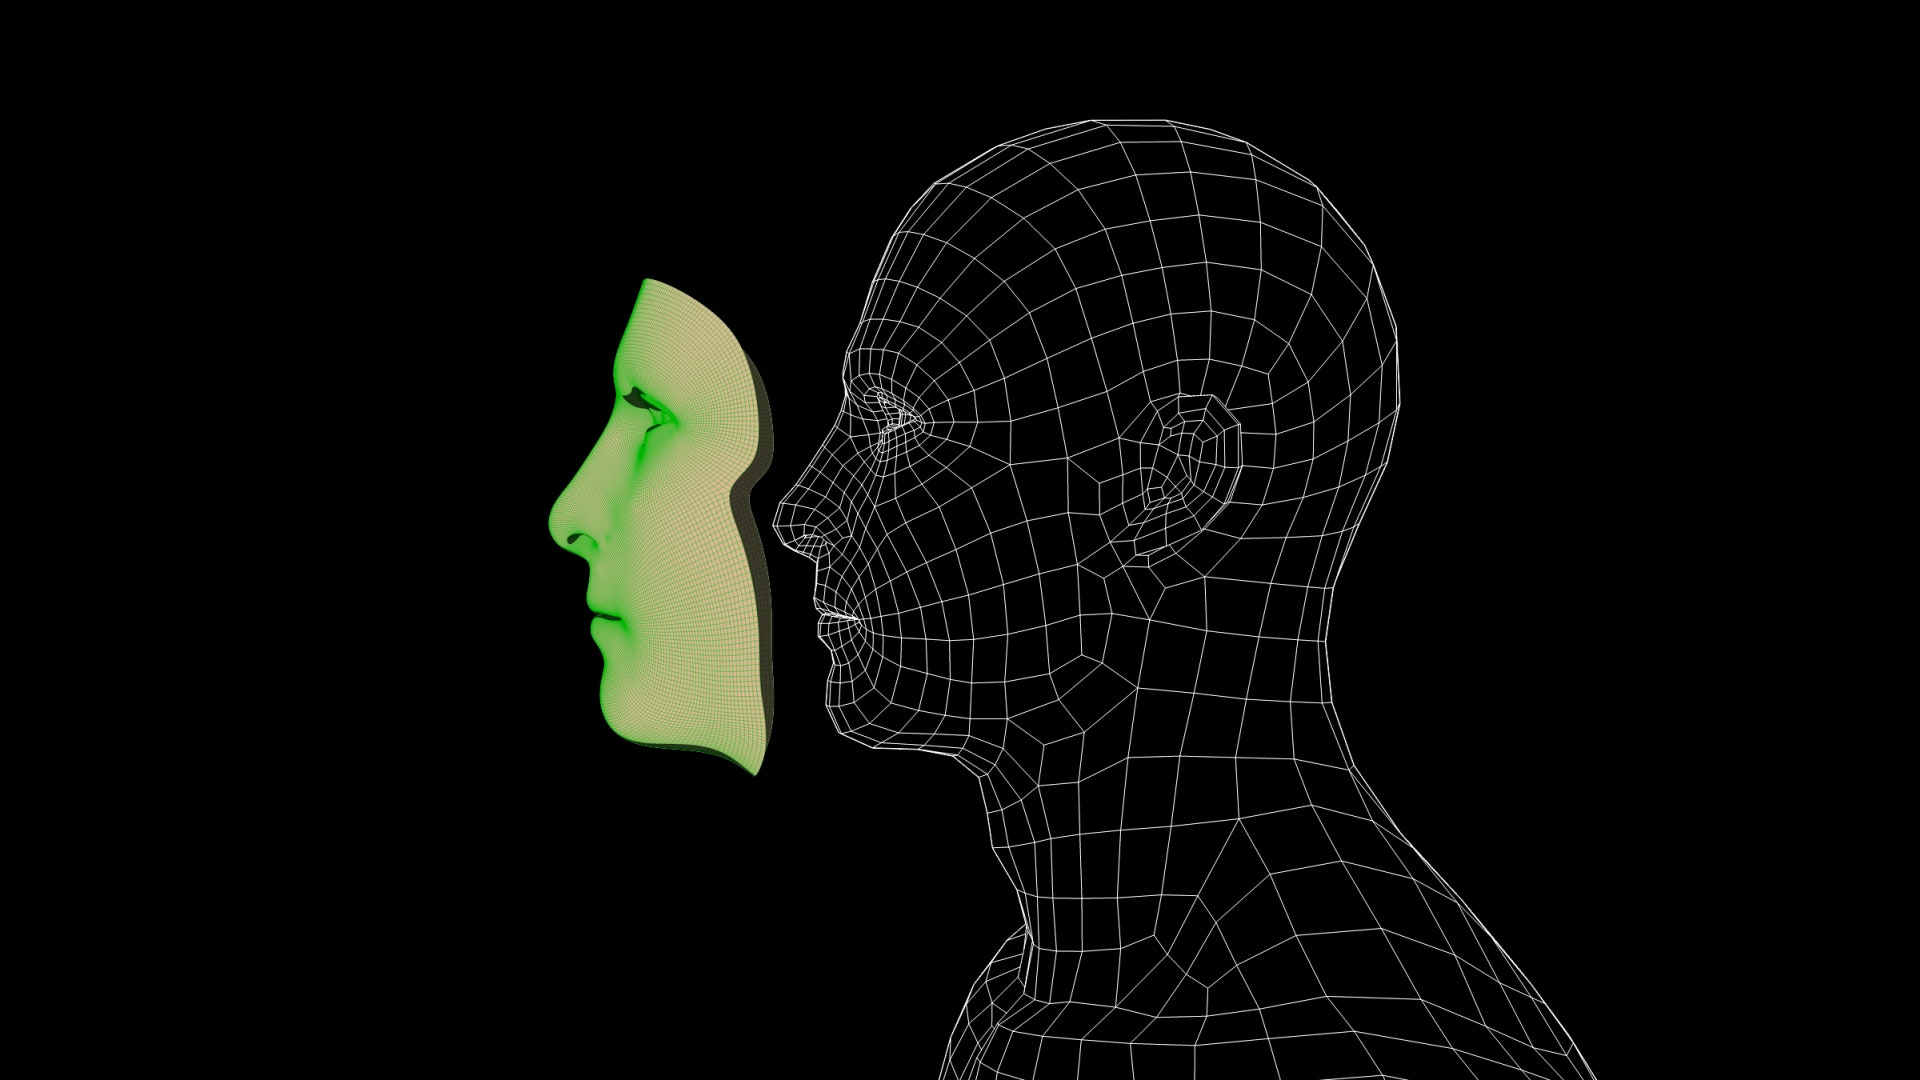
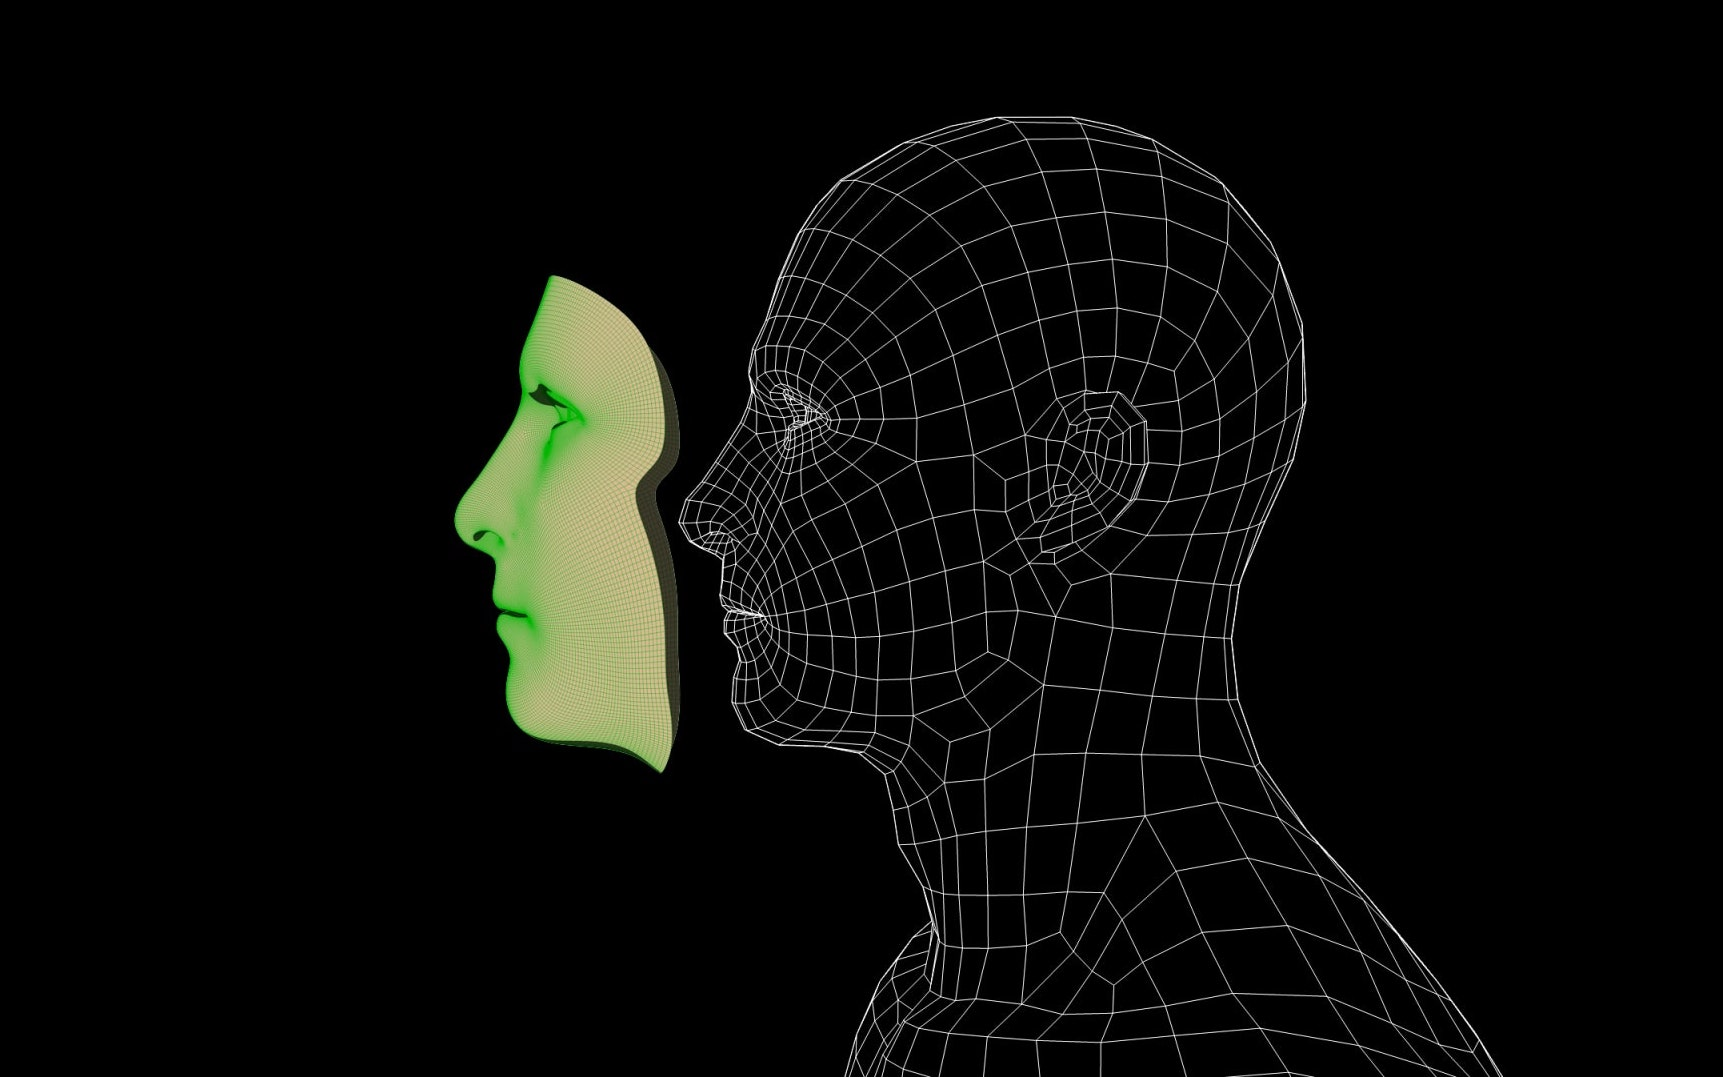
updated css v4

Changed region(s): [[0.2461, 0.0919, 0.8613, 1.0]]

diff --git a/public/index.css b/public/index.css
@@ -1,13 +1,13 @@
 body {
-    background-color: #565656;
+    background-color: #3f3f43;
 }
 
 img {
     position: absolute;
     top: 0px;
     right: 0px;
-    height: 600px;
-    width: 1150px;
+    height: 650px;
+    width: 1100px;
     image-resolution: 700dpi;
 }
 
@@ -19,20 +19,33 @@ img {
 #box_title {
     width: 700px;
     position: absolute;
-    top: 10px;
-    left: 50px;
+    top: 5px;
+    left: 100px;
 }
 
 #title {
     color: white;
     font-size: 75px;
-    text-align: center;
+    text-align: left;
+    font-family: "Georgia", serif;
+}
+
+#background-aboutus {
+    height: 140px;
+    width: 700px;
+    position: absolute;
+    background-color: #b5b5ba;
+    opacity: 0.6;
+    left: 20px;
+    top: 620px;
 }
 
 #box_aboutus{
     height:200px;
     position: absolute;
-    top: 550px;
+    top: 0px;
+    left: 0px;
+    top: 600px;
     left: 15px;
     width: 600px;
 }
@@ -43,12 +56,13 @@ img {
     color: white;
     text-align: left;
     font-size: 30px;
+    font-family: "Georgia", serif;
 }
 
 #box-second_section {
     height:200px;
     position: absolute;
-    top: 590px;
+    top: 640px;
     left: 15px;
     width: 600px;
 }
@@ -59,13 +73,14 @@ img {
     color: white;
     text-align: left;
     font-size: 25px;
+    font-family: "Georgia", serif;
 }
 
 #box_credits {
     position: absolute;
     margin-top: 0;
     top: 400px;
-    left: 0px;
+    left: 15px;
     width: 250px;
 }
 
@@ -73,33 +88,36 @@ img {
     text-align: left;
     color: white;
     font-size: 10px;
+    font-family: "Georgia", serif;
 }
 
 #box_drag {
     position: absolute;
-    top: 500px;
-    right: 200px;
+    top: 600px;
+    right: 400px;
 }
 
 #dragdrop {
     color: white;
     text-align: center;
     margin-top: 0;
+    font-family: "Georgia", serif;
 }
 
 #box_uploadDesc {
     margin-top: 0;
     position: absolute;
-    top: 600px;
-    right: 0px;
+    top: 700px;
+    right: 10px;
     height:100px;
-    width: 400px;
-    text-align: center;
+    width: 700px;
 }
 
 #uploadDesc{
     color: white;
-    overflow-wrap: break-word;
+    text-align: left;
+    font-family: "Georgia", serif;
+    font-size: 15px;
 }
 
 

diff --git a/src/App.js b/src/App.js
@@ -17,11 +17,31 @@ const globalStyles = css`
     font-weight: 300;
     margin: 0;
   }
-    #submit {
+    #copyfilepath {
         position: absolute;
-        top: 500px;
-        right: 15px;
-}
+        top: 650px;
+        right: 400px;
+        font-family: "Georgia", serif;
+    }
+    
+    #upload {
+        position: absolute;
+        right: 0px;
+        top: 630px;
+        width: 400px;
+        height: 70px;
+        background-color: #66676d;
+        color: white;
+        font-family: "Georgia", serif;
+    }
+    
+    #input {
+        position: absolute;
+        top: 650px;
+        right: 500px;
+        font-family: "Georgia", serif;
+    }
+
 `;
 function App() {
   const [openFileSelector, { filesContent, loading, errors }] = useFilePicker({
@@ -37,14 +57,16 @@ function App() {
   return (
     <div>
       <Global styles={globalStyles} />
-      <div id="submit">
-        <button onClick={() => openFileSelector()}>Copy file path</button>
+      <div>
+        <button id ="copyfilepath" onClick={() => openFileSelector()}>Copy file path</button>
         <form onSubmit={(e) => {
           e.preventDefault();
           setOutput(encodeURIComponent(url));
         }}>
-          <input value={url} onInput={e => setUrl(e.target.value)} />
-          <button type="submit">Upload</button>
+          <div id="box_upload">
+            <input id="input" value={url} onInput={e => setUrl(e.target.value)} />
+            <button id ="upload" type="submit">Upload</button>
+          </div>
         </form>
         {console.log(output)}
         <div>{result}</div>

diff --git a/public/index.html b/public/index.html
@@ -20,6 +20,9 @@
                 <blockquote id="title">Deepfake Detection Tool</blockquote>
             </div>
             
+            <div id="background-aboutus">
+                </div>
+            
             <div id="box_aboutus">
                 <blockquote id="aboutus">
                     <p>About us:
